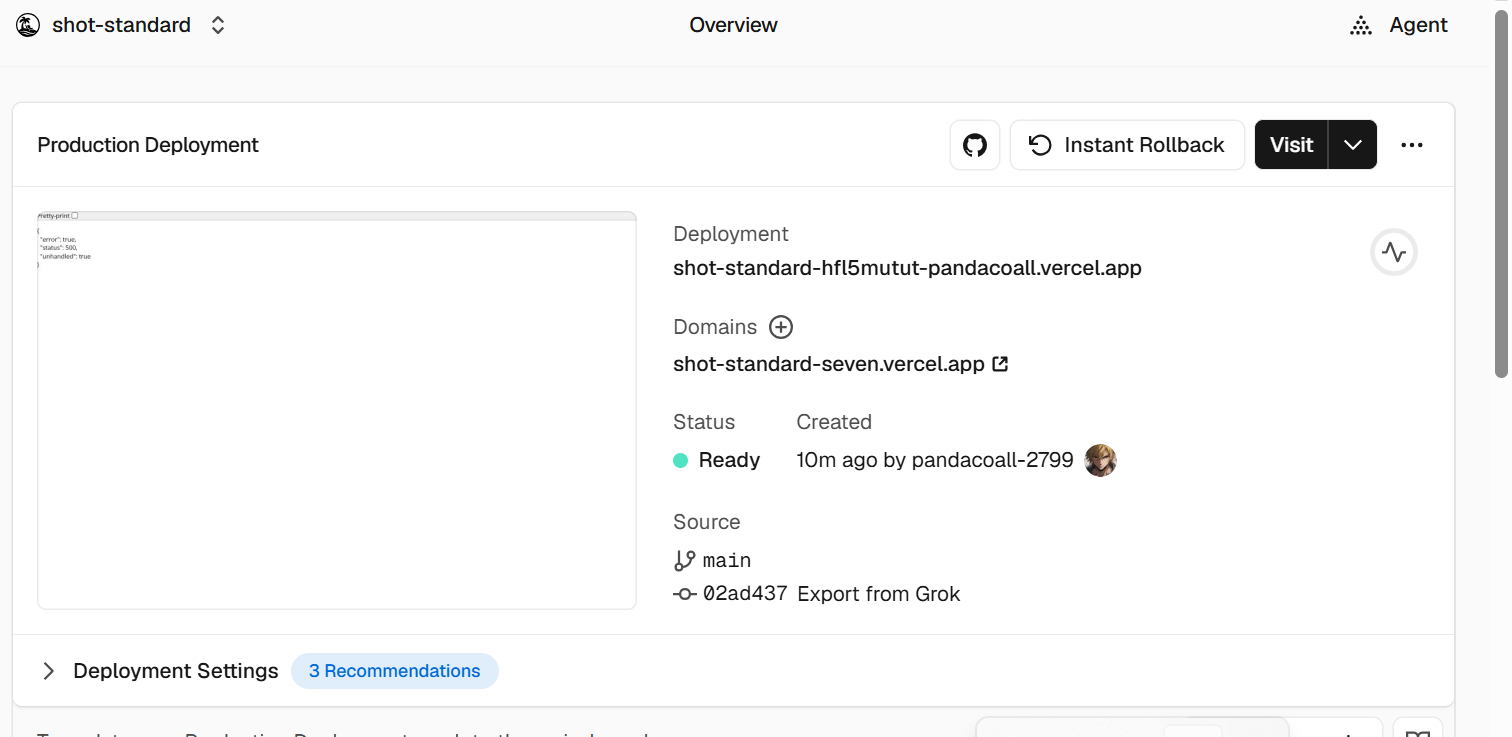
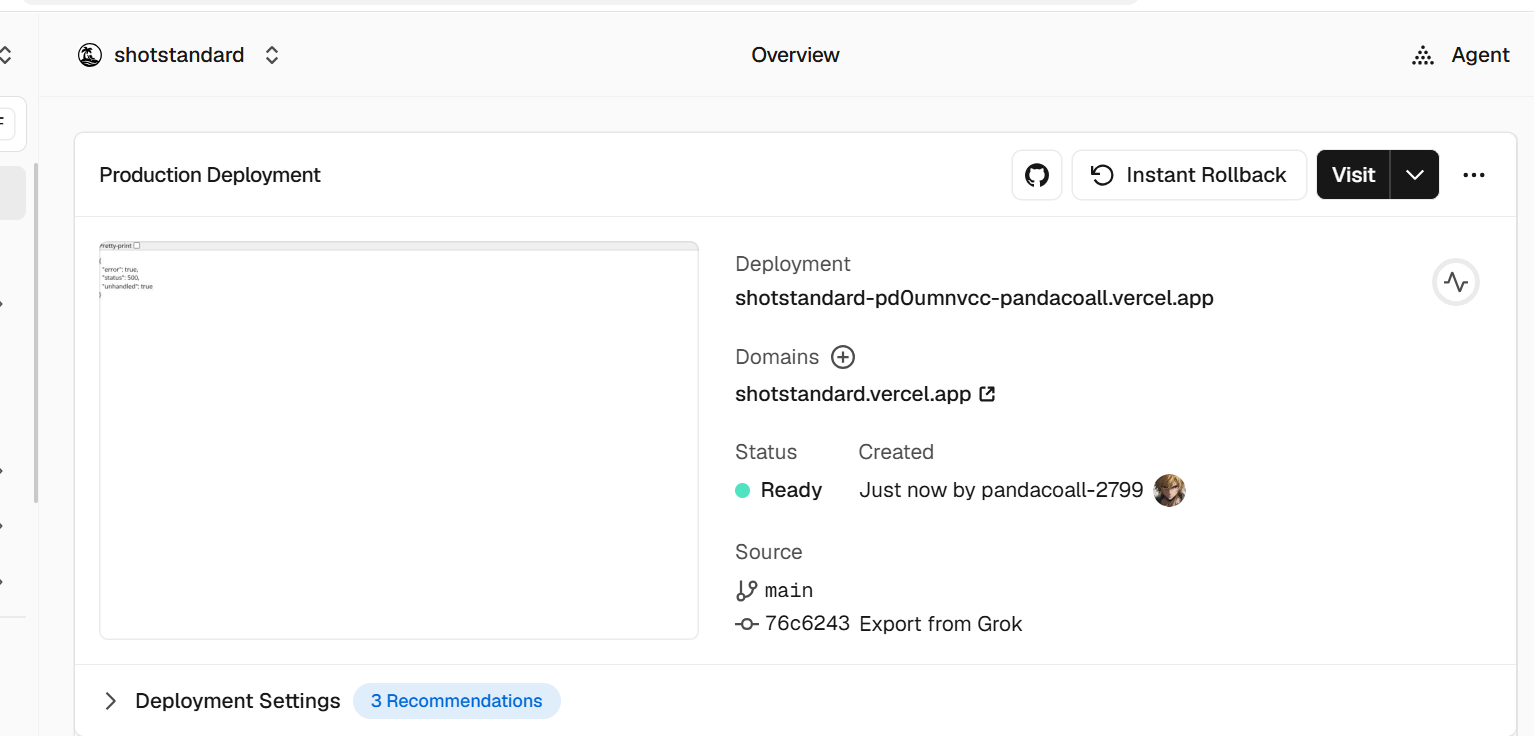
Export from Grok

diff --git a/server/middleware/grok-pwa.ts b/server/middleware/grok-pwa.ts
@@ -28,30 +28,6 @@ import {
 interface GrokPwaEvent {
   url: URL;
   req: { method: string; headers: Headers };
-  request?: Request;
-  path?: string;
-}
-
-function continueNext(next: unknown): unknown | Promise<unknown> {
-  return typeof next === "function" ? (next as () => unknown | Promise<unknown>)() : undefined;
-}
-
-function normalizeEvent(event: GrokPwaEvent): GrokPwaEvent | null {
-  const req = event.req ?? event.request;
-  let url = event.url;
-  if (!(url instanceof URL)) {
-    try {
-      const raw =
-        (req as Request | undefined)?.url ||
-        (typeof event.path === "string" ? event.path : "/") ||
-        "/";
-      url = new URL(raw, "http://localhost");
-    } catch {
-      return null;
-    }
-  }
-  if (!req || typeof req.method !== "string") return null;
-  return { ...event, req, url };
 }
 
 function requestHost(event: GrokPwaEvent): string {
@@ -61,12 +37,11 @@ function requestHost(event: GrokPwaEvent): string {
 }
 
 function injectHeadStreaming(response: Response, host: string): Response {
-  if (!response.body) return response;
   const injector = createHeadInjector({
     host,
     site: grokOgIdentity.site,
   });
-  const transformed = response.body.pipeThrough(
+  const transformed = response.body!.pipeThrough(
     new TransformStream<Uint8Array, Uint8Array>({
       transform(chunk, controller) {
         for (const out of injector.push(chunk)) controller.enqueue(out);
@@ -89,56 +64,48 @@ export default async function grokPwaMiddleware(
   event: GrokPwaEvent,
   next: () => unknown | Promise<unknown>,
 ): Promise<unknown> {
-  try {
-    const normalized = normalizeEvent(event);
-    if (!normalized) return continueNext(next);
+  const method = (event.req.method ?? "GET").toUpperCase();
+  if (method !== "GET") return next();
 
-    const method = (normalized.req.method ?? "GET").toUpperCase();
-    if (method !== "GET") return continueNext(next);
+  const path = event.url.pathname;
+  const urlWithQuery = path + event.url.search;
 
-    const path = normalized.url.pathname;
-    const urlWithQuery = path + normalized.url.search;
-
-    if (path === "/__grok/manifest.webmanifest" || path === "/__grok/manifest.json") {
-      return new Response(renderWebManifest(requestHost(normalized)), {
-        headers: {
-          "content-type": "application/manifest+json; charset=utf-8",
-          "cache-control": "no-cache",
-        },
-      });
-    }
-
-    if (
-      isInstallQuery(urlWithQuery) &&
-      isDocumentPath(path) &&
-      acceptsHtml(normalized.req.headers.get("accept"))
-    ) {
-      const html = renderInstallPageHtml(installPageTemplate, {
-        host: requestHost(normalized),
-        url: urlWithQuery,
-      });
-      return new Response(html, {
-        headers: {
-          "content-type": "text/html; charset=utf-8",
-          "cache-control": "no-cache",
-        },
-      });
-    }
-
-    if (!isDocumentPath(path)) return continueNext(next);
-
-    const result = await continueNext(next);
-    if (
-      result instanceof Response &&
-      result.body &&
-      String(result.headers.get("content-type") ?? "").includes("text/html") &&
-      !result.headers.get("content-encoding")
-    ) {
-      return injectHeadStreaming(result, requestHost(normalized));
-    }
-    return result;
-  } catch (err) {
-    console.error("[grok-pwa] middleware failed; passing through", err);
-    return continueNext(next);
+  if (path === "/__grok/manifest.webmanifest" || path === "/__grok/manifest.json") {
+    return new Response(renderWebManifest(requestHost(event)), {
+      headers: {
+        "content-type": "application/manifest+json; charset=utf-8",
+        "cache-control": "no-cache",
+      },
+    });
   }
+
+  if (
+    isInstallQuery(urlWithQuery) &&
+    isDocumentPath(path) &&
+    acceptsHtml(event.req.headers.get("accept"))
+  ) {
+    const html = renderInstallPageHtml(installPageTemplate, {
+      host: requestHost(event),
+      url: urlWithQuery,
+    });
+    return new Response(html, {
+      headers: {
+        "content-type": "text/html; charset=utf-8",
+        "cache-control": "no-cache",
+      },
+    });
+  }
+
+  if (!isDocumentPath(path)) return next();
+
+  const result = await next();
+  if (
+    result instanceof Response &&
+    result.body &&
+    String(result.headers.get("content-type") ?? "").includes("text/html") &&
+    !result.headers.get("content-encoding")
+  ) {
+    return injectHeadStreaming(result, requestHost(event));
+  }
+  return result;
 }
